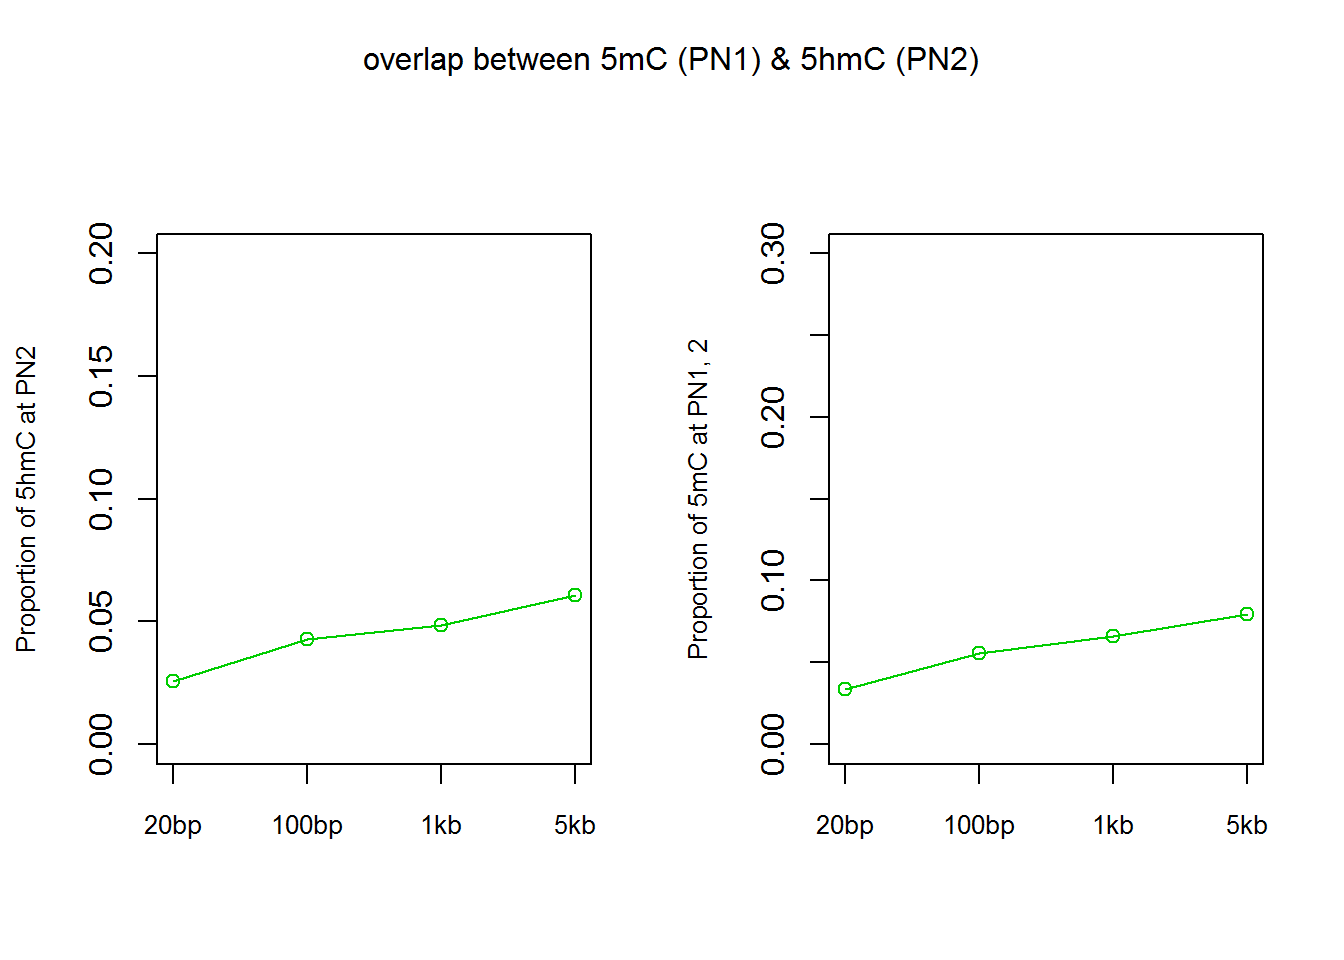
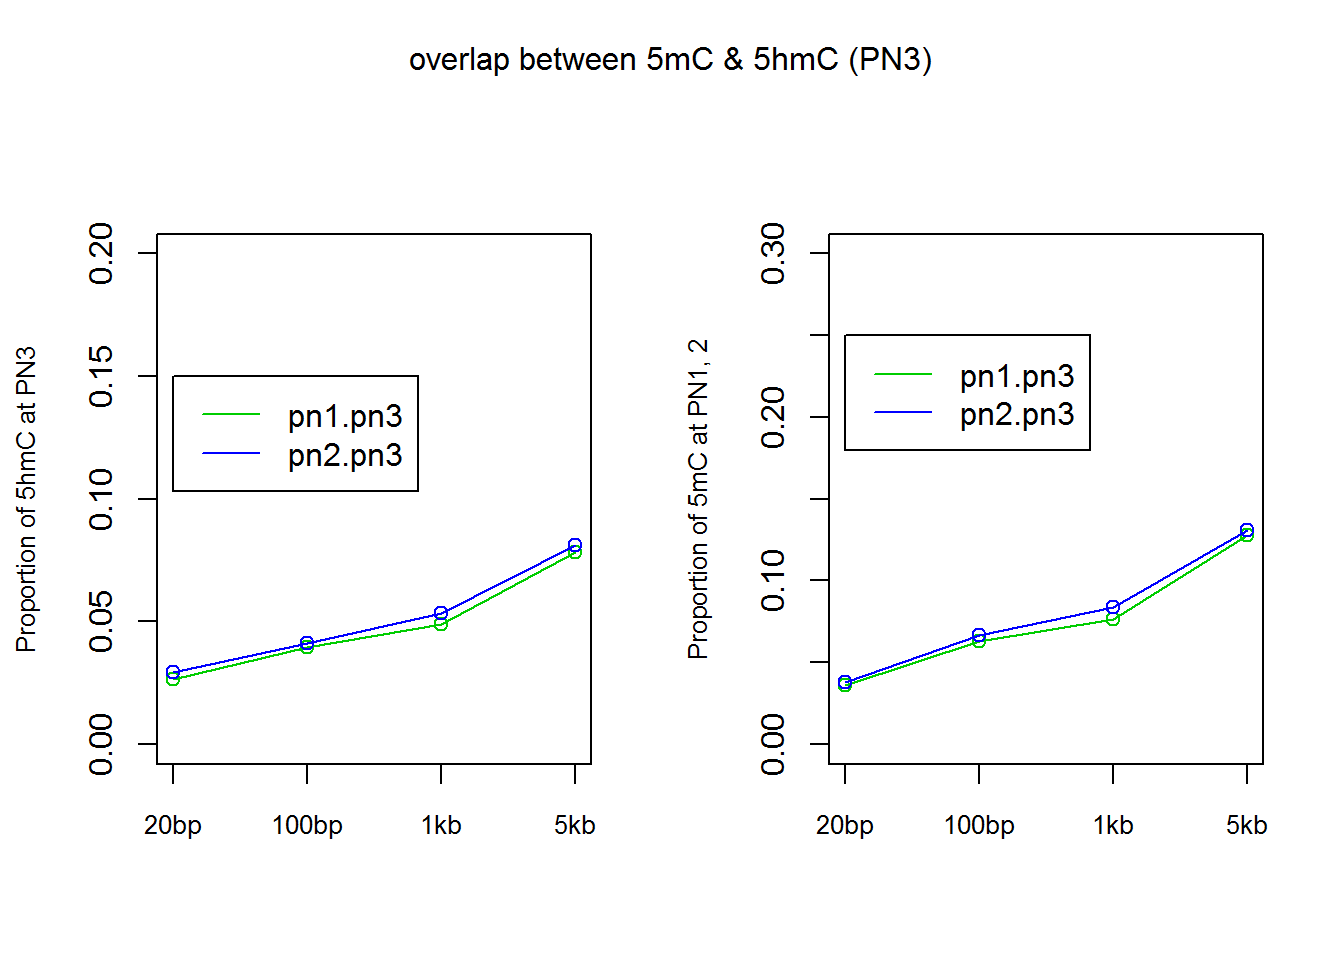
Jan292018

diff --git a/docs/PN-analysis.html b/docs/PN-analysis.html
@@ -314,10 +314,10 @@ div.tocify {
 shared across the workflowr files. -->
 <!-- Update knitr chunk options -->
 <!-- Insert the date the file was last updated -->
-<p><strong>Last updated:</strong> 2018-01-09</p>
+<p><strong>Last updated:</strong> 2018-01-24</p>
 <!-- Insert the code version (Git commit SHA1) if Git repository exists and R
  package git2r is installed -->
-<p><strong>Code version:</strong> 2aa9e68</p>
+<p><strong>Code version:</strong> efd9b6b</p>
 <!-- Add your analysis here -->
 <div id="mouse-genome-mm9" class="section level2">
 <h2>mouse genome (mm9)</h2>
@@ -6955,25 +6955,32 @@ Glis3
 </div>
 <div id="correlation-between-5mc-vs-5hmc" class="section level3">
 <h3>correlation between 5mC vs 5hmC</h3>
+<div id="at-four-pn-stages" class="section level4">
+<h4>at four PN stages</h4>
 <p><img src="figure/PN-analysis.Rmd/unnamed-chunk-60-1.png" width="672" style="display: block; margin: auto;" /></p>
+</div>
+<div id="at-pn3-and-pn4" class="section level4">
+<h4>at PN3 and PN4</h4>
+<p><img src="figure/PN-analysis.Rmd/unnamed-chunk-61-1.png" width="672" style="display: block; margin: auto;" /></p>
+</div>
 </div>
 </div>
 <div id="paternal-site-changes-5mc-vs-5hmc" class="section level2">
 <h2>Paternal site changes (5mC vs 5hmC)</h2>
 <div id="mc-pn1-2-3-vs-5hmc-pn4" class="section level3">
 <h3>5mC (PN1, 2, 3) vs 5hmC (PN4)</h3>
-<p><img src="figure/PN-analysis.Rmd/unnamed-chunk-61-1.png" width="672" style="display: block; margin: auto;" /></p>
+<p><img src="figure/PN-analysis.Rmd/unnamed-chunk-62-1.png" width="672" style="display: block; margin: auto;" /></p>
 <ul>
 <li>background: 20 bp window overlap with PN1 is 3.75e-05 and 0.01245.</li>
 </ul>
 </div>
 <div id="mc-pn1-2-vs-5hmc-pn3" class="section level3">
 <h3>5mC (PN1, 2) vs 5hmC (PN3)</h3>
-<p><img src="figure/PN-analysis.Rmd/unnamed-chunk-62-1.png" width="672" style="display: block; margin: auto;" /></p>
+<p><img src="figure/PN-analysis.Rmd/unnamed-chunk-63-1.png" width="672" style="display: block; margin: auto;" /></p>
 </div>
 <div id="mc-pn1-vs-5hmc-pn2" class="section level3">
 <h3>5mC (PN1) vs 5hmC (PN2)</h3>
-<p><img src="figure/PN-analysis.Rmd/unnamed-chunk-63-1.png" width="672" style="display: block; margin: auto;" /></p>
+<p><img src="figure/PN-analysis.Rmd/unnamed-chunk-64-1.png" width="672" style="display: block; margin: auto;" /></p>
 </div>
 </div>
 <div id="pn2-vs-pn3" class="section level2">

diff --git a/docs/JumpSeq-analysis.html b/docs/JumpSeq-analysis.html
@@ -314,10 +314,10 @@ div.tocify {
 shared across the workflowr files. -->
 <!-- Update knitr chunk options -->
 <!-- Insert the date the file was last updated -->
-<p><strong>Last updated:</strong> 2018-01-08</p>
+<p><strong>Last updated:</strong> 2018-01-29</p>
 <!-- Insert the code version (Git commit SHA1) if Git repository exists and R
  package git2r is installed -->
-<p><strong>Code version:</strong> 2aa9e68</p>
+<p><strong>Code version:</strong> efd9b6b</p>
 <!-- Add your analysis here -->
 <p>All samples are <a href="https://docs.google.com/spreadsheets/d/1FHkVSgTCJDY19VcFg2goat4rXJfxofCn3CFRV-gCbfo/edit#gid=400442004">here</a>: 48 ng (11); 24 ng (5); 12 ng (5); 6ng (5); 2.4 ng (5); 0.6ng (2).</p>
 <p>Mouse genome mm9 has 2,654,911,517 bases, 507,439,500 (19.11324%) cytosines and 507,585,491 (19.11873%) Gumines.</p>
